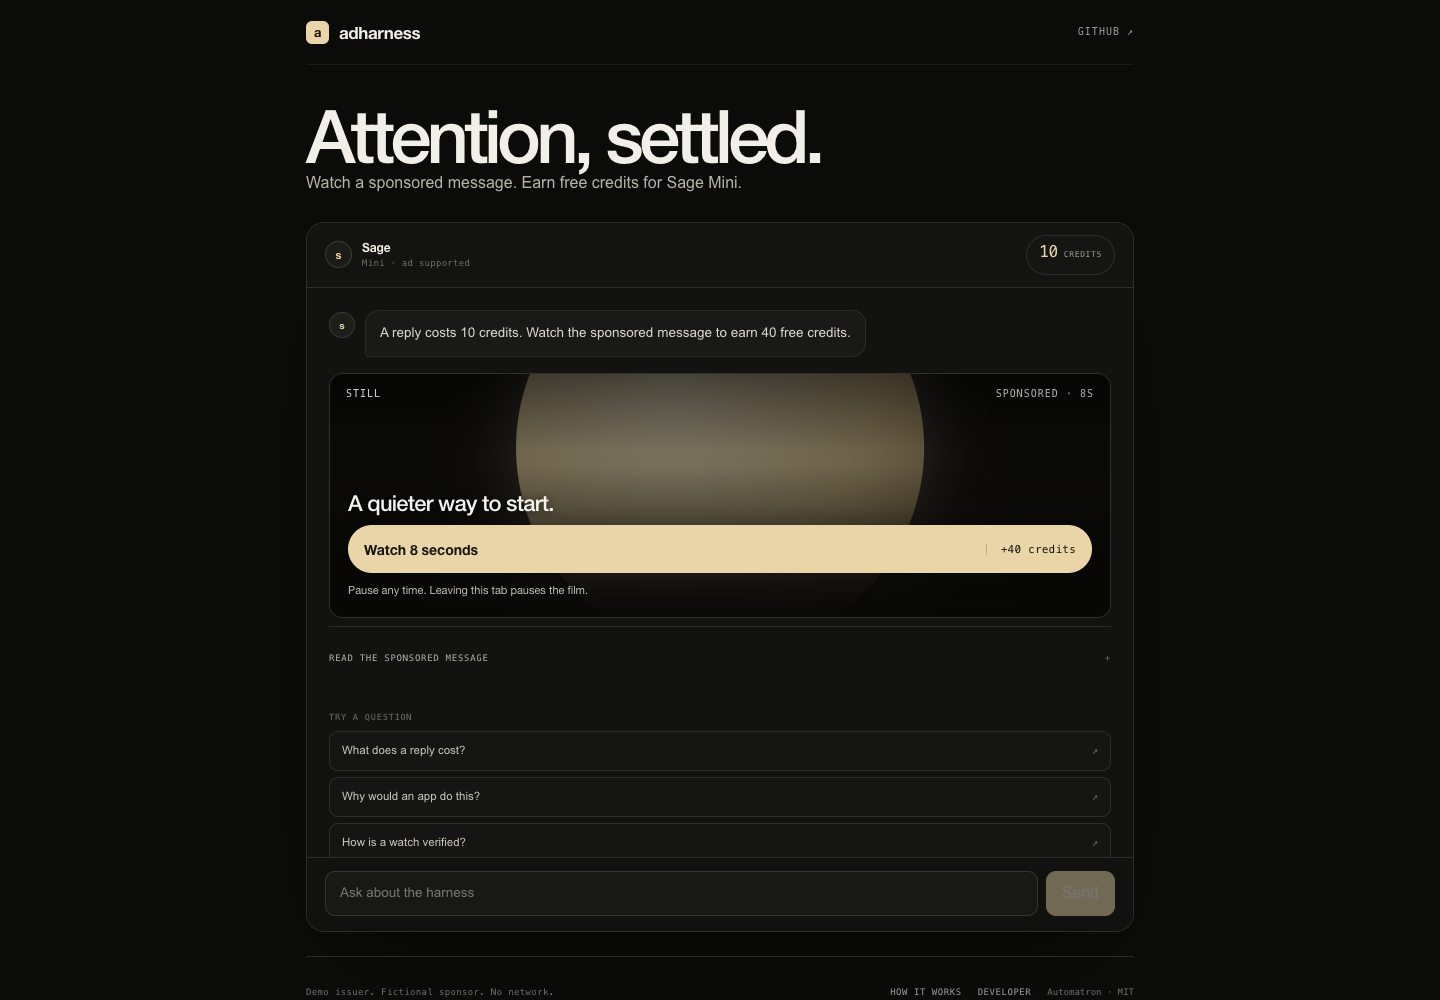
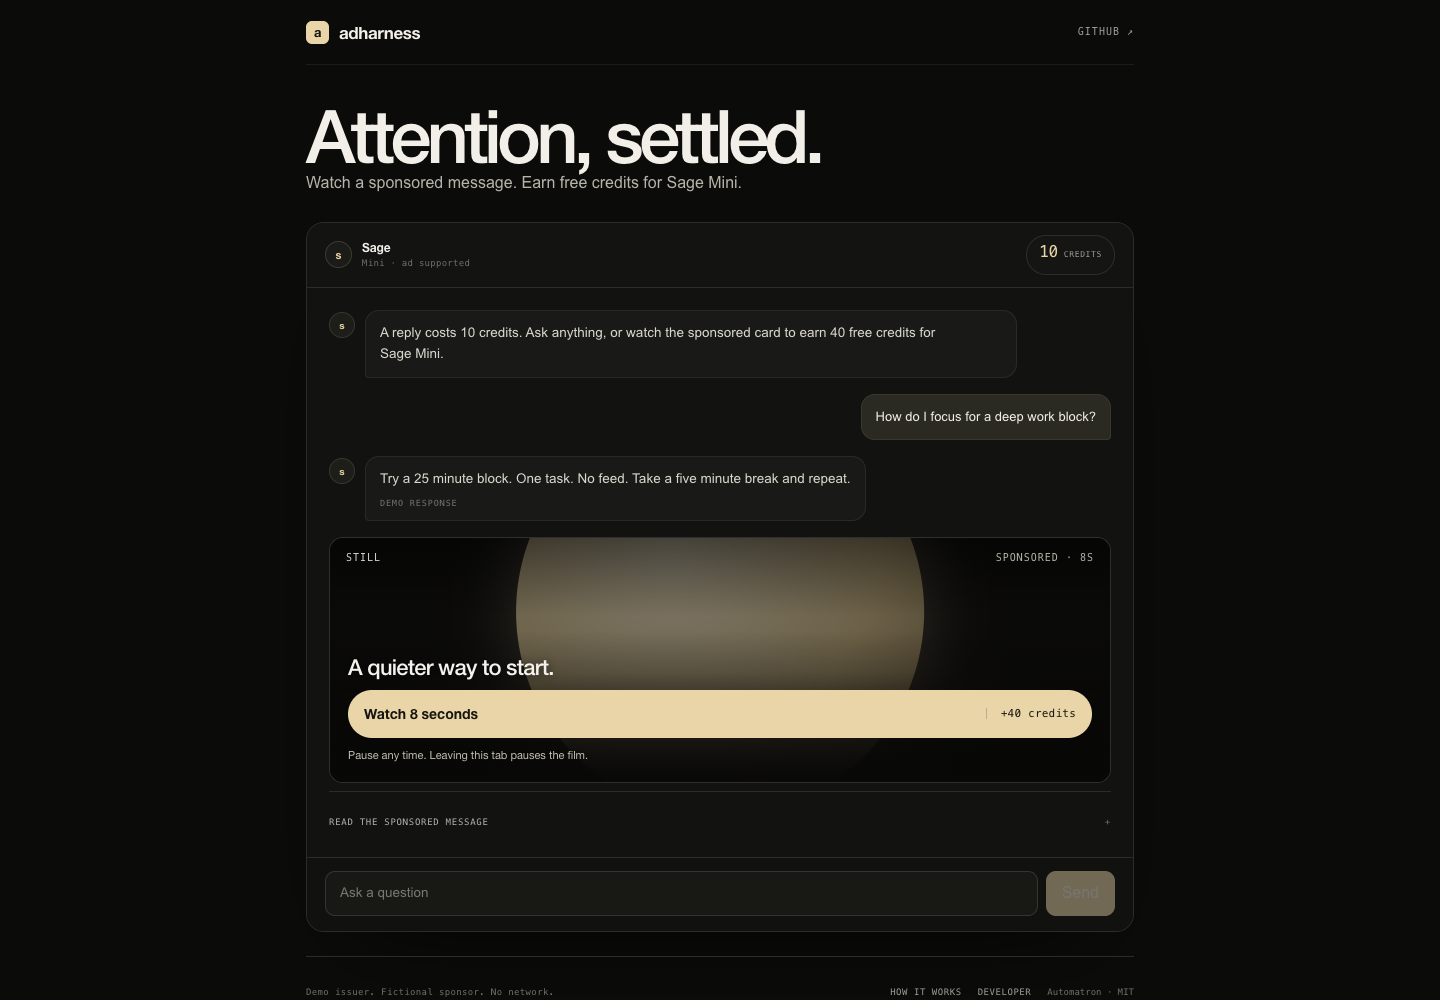
Place the card after a sample answer
Seed one authored question and labelled answer so the sponsored card appears after value, between turns. Remove the starter buttons and let the composer carry the next question. Update the placement, design, Functional Minimalism and README copy, and refresh the inline screenshot.

Changed region(s): [[0.2188, 0.372, 0.7812, 0.899], [0.375, 0.31, 0.6562, 0.341], [0.2812, 0.341, 0.3125, 0.372]]

diff --git a/index.html b/index.html
@@ -106,9 +106,26 @@
                     <span class="ah-avatar" aria-hidden="true">s</span>
                     <div class="ah-bubble">
                       <p>
-                        A reply costs 10 credits. Watch the sponsored message to
-                        earn 40 free credits.
+                        A reply costs 10 credits. Ask anything, or watch the
+                        sponsored card to earn 40 free credits for Sage Mini.
                       </p>
+                    </div>
+                  </div>
+
+                  <div class="ah-msg ah-msg-user">
+                    <div class="ah-bubble">
+                      <p>How do I focus for a deep work block?</p>
+                    </div>
+                  </div>
+
+                  <div class="ah-msg ah-msg-assistant">
+                    <span class="ah-avatar" aria-hidden="true">s</span>
+                    <div class="ah-bubble">
+                      <p>
+                        Try a 25 minute block. One task. No feed. Take a five
+                        minute break and repeat.
+                      </p>
+                      <span class="ah-label">Demo response</span>
                     </div>
                   </div>
 
@@ -171,11 +188,6 @@
 
                   <div class="ah-thread" id="thread"></div>
                 </div>
-                <div
-                  class="ah-starters"
-                  id="starters"
-                  aria-label="Suggested questions"
-                ></div>
               </div>
               <form class="ah-composer" id="composer">
                 <div class="ah-input-row">

diff --git a/styles.css b/styles.css
@@ -344,54 +344,6 @@ body {
 .ah-msg-system[data-tone="reject"] {
   color: var(--ah-red);
 }
-.ah-starters {
-  display: grid;
-  gap: 6px;
-  padding-top: 2px;
-}
-.ah-starters[hidden] {
-  display: none;
-}
-.ah-starters p {
-  margin-bottom: 2px;
-  color: var(--ah-dim);
-  font: 500 8.5px/1.2 var(--mono, monospace);
-  letter-spacing: 0.1em;
-  text-transform: uppercase;
-}
-.ah-starters button {
-  display: flex;
-  align-items: center;
-  justify-content: space-between;
-  gap: 12px;
-  width: 100%;
-  min-height: 40px;
-  padding: 10px 12px;
-  border: 1px solid var(--ah-line);
-  border-radius: 9px;
-  background: #151513;
-  color: #c9c6bb;
-  font: 500 11.5px/1.3 var(--body, sans-serif);
-  text-align: left;
-  cursor: pointer;
-  transition:
-    border-color 0.18s ease,
-    background 0.18s ease;
-}
-.ah-starters button::after {
-  content: "↗";
-  flex: none;
-  color: var(--ah-dim);
-  font: 500 10px/1 var(--mono, monospace);
-}
-.ah-starters button:hover:enabled {
-  border-color: #4a4a42;
-  background: #181816;
-}
-.ah-starters button:disabled {
-  cursor: default;
-  opacity: 0.4;
-}
 .ah-composer {
   display: grid;
   gap: 9px;

diff --git a/docs/DESIGN.md b/docs/DESIGN.md
@@ -21,8 +21,9 @@ in context.
 - One dark chat surface on a near black page.
 - A short wordmark bar, one headline and one task line. No introduction,
   feature pills or numbered contract section above the demo.
-- One conversation. The sponsored card sits after the assistant intro, between
-  turns, with the thread continuing below it.
+- One conversation. An authored sample exchange shows a question and a labelled
+  answer. The sponsored card sits after the answer, between turns, with the
+  thread continuing below it.
 - A model scoped credit chip in the host bar. The inline card is not separated
   from the conversation by a side rail.
 - One primary action at each stage: watch, resume or send.
@@ -31,9 +32,9 @@ in context.
 - The exchange, placement rules and boundary live behind How it works.
 - A concise footer states the boundary without repeating the whole protocol.
 
-The first view at desktop size contains the headline, the chat, the inline
-sponsored card, the credit chip and the composer. The page does not require an
-introductory read.
+The first view at desktop size contains the headline, the sample exchange, the
+inline sponsored card, the credit chip and the composer. The page does not
+require an introductory read.
 
 ## The sponsor film
 
@@ -114,6 +115,8 @@ contract section.
   demonstrate the inline product.
 - **An unlabelled brand suggestion.** It would look like a model endorsement.
 - **A universal wallet.** It would blur which model the sponsored credits fund.
+- **A row of starter buttons.** They competed with the conversation and the
+  card. One authored sample exchange shows the task.
 - **A tutorial page above the demo.** It delays the usable object and repeats
   what the chat, card and credit chip already show.
 - **A duplicate verification card.** The credit chip, chat result and Developer

diff --git a/docs/FUNCTIONAL-MINIMALISM.md b/docs/FUNCTIONAL-MINIMALISM.md
@@ -46,6 +46,7 @@ This is a recorded review, not a certification or a user study.
 | An unnamed model scope                                                         | Credits looked universal.                                            | Host bar, task line, transcript and How it works name Sage Mini.                       |
 | Verification card between the player and ledger                                | Duplicated the credit chip, chat result and receipt.                 | Removed. The chip, chat receipt and Developer trace carry the outcome.                 |
 | Composer meta line repeating balance and reply count                           | Repeated values already visible in the credit chip.                  | Removed. The locked placeholder and Earn action carry the consequence.                 |
+| Three starter buttons below the ad                                             | Extra controls competed with the conversation and the card.          | Replaced with one authored sample exchange. The card follows the answer.               |
 | Player state line and device note                                              | Implementation status and repeated behavior copy.                    | Removed. The player itself and How it works carry the behavior.                        |
 | Six-item intro in the chat                                                     | Overshadowed the task.                                               | One sentence: a reply costs 10 credits; the sponsored card earns 40.                   |
 | Static explanatory footer                                                      | Long boundary text at the end of the page.                           | One concise boundary line; full boundary in How it works.                              |

diff --git a/README.md b/README.md
@@ -19,11 +19,12 @@ An LLM app can run out of credits. Ad Harness gives it one honest option: place
 a labelled sponsored card in the conversation, verify that it was watched, and
 grant a credit receipt the host can redeem exactly once.
 
-The demo is a working end to end reference. The card sits between the assistant
-intro and the next turn. A chat reply costs 10 credits. An 8 second sponsored
-card earns 40 free credits for **Sage Mini**. The player pauses when the tab is
-hidden or the card leaves the view. Completion produces a claim. The host checks
-the claim, verifies a signed receipt and updates the credit chip. Replaying the
+The demo is a working end to end reference. The card sits after a sample
+assistant answer and before the next turn. The sample exchange is authored; its
+answer is labelled. A chat reply costs 10 credits. An 8 second sponsored card
+earns 40 free credits for **Sage Mini**. The player pauses when the tab is hidden
+or the card leaves the view. Completion produces a claim. The host checks the
+claim, verifies a signed receipt and updates the credit chip. Replaying the
 receipt is refused.
 
 The page follows the Functional Minimalism harness: the working chat and the

diff --git a/CHANGELOG.md b/CHANGELOG.md
@@ -3,9 +3,9 @@
 ## Unreleased
 
 - Recomposed the demo as an inline sponsored card inside the conversation, with
-  a model scoped credit chip in the host bar and no side rail. The 8 second card
-  sits between the assistant intro and the thread; the transcript is inline; the
-  credit chip, chat receipt and Developer trace carry the accounting.
+  a model scoped credit chip in the host bar and no side rail. An authored sample
+  exchange shows a question and a labelled answer; the 8 second card follows the
+  answer and the thread continues below.
 - Reworked the demo around Functional Minimalism: one headline and one task
   line, the inline card and credit chip lead, optional explanation is behind
   **How it works**, and the receipt, trace, placement snippet and host

diff --git a/SUPPORT.md b/SUPPORT.md
@@ -8,9 +8,9 @@ npm run dev
 ```
 
 Open `http://127.0.0.1:4173/`. The sponsored card sits inside the conversation
-after the assistant intro. Watch 8 seconds, earn 40 free credits for **Sage
-Mini**, inspect the receipt in Developer and try to replay it. The demo issuer is
-public on purpose; it proves the flow, not an ad network.
+after the sample assistant answer. Watch 8 seconds, earn 40 free credits for
+**Sage Mini**, inspect the receipt in Developer and try to replay it. The demo
+issuer is public on purpose; it proves the flow, not an ad network.
 
 For a first contribution, start with an open issue that has a concrete scope and
 a verification command. The [roadmap](docs/ROADMAP.md) names the next useful

diff --git a/docs/INTEGRATION.md b/docs/INTEGRATION.md
@@ -45,9 +45,10 @@ The demo uses a wide stage inside the conversation:
 }
 ```
 
-The demo places the card after the assistant intro and keeps the thread below
-it. The card is not recreated on each message; that would reset the watch. Keep
-the sponsored node stable while the conversation appends.
+The demo places the card after a sample assistant answer and keeps the thread
+below it. The sample exchange is authored; the assistant answer is labelled.
+The card is not recreated on each message; that would reset the watch. Keep the
+sponsored node stable while the conversation appends.
 
 ## Mark up the slot
 

diff --git a/docs/PLACEMENTS.md b/docs/PLACEMENTS.md
@@ -93,7 +93,8 @@ for those.
 ## Demo specifics
 
 - Host: **Sage**, model **Sage Mini**, labelled `Mini · ad supported`.
-- Placement: after the assistant intro and before the user's next turn.
+- Placement: after the sample assistant answer and before the user's next turn.
+  The sample exchange is authored; the answer is labelled.
 - Sponsor: **Still**, a fictional product.
 - Watch: 8 seconds, explicit start, pause when hidden or out of view.
 - Reward: 40 credits, scoped to Sage Mini.
